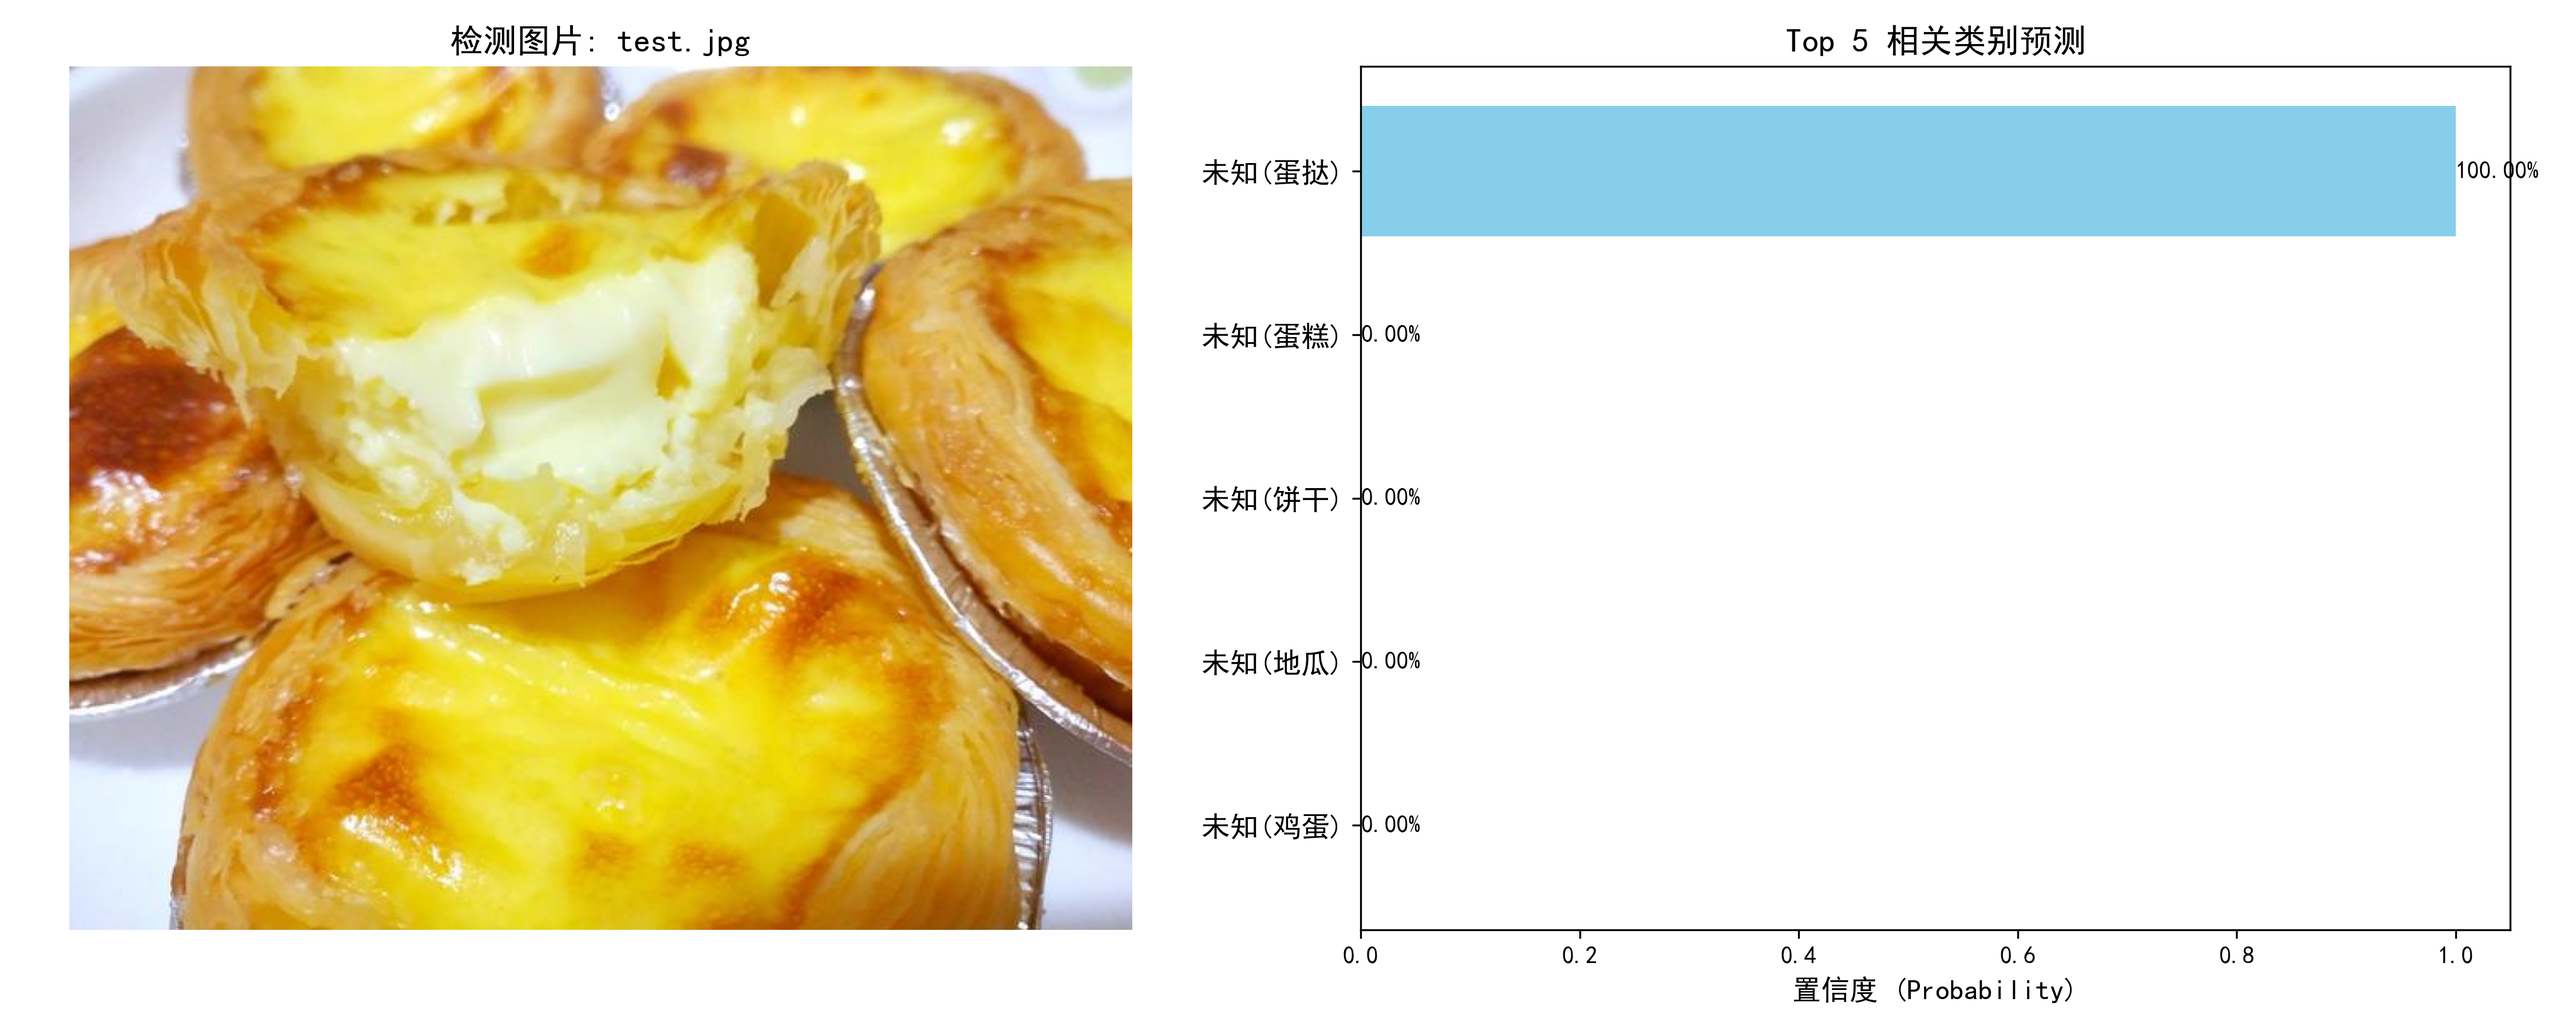
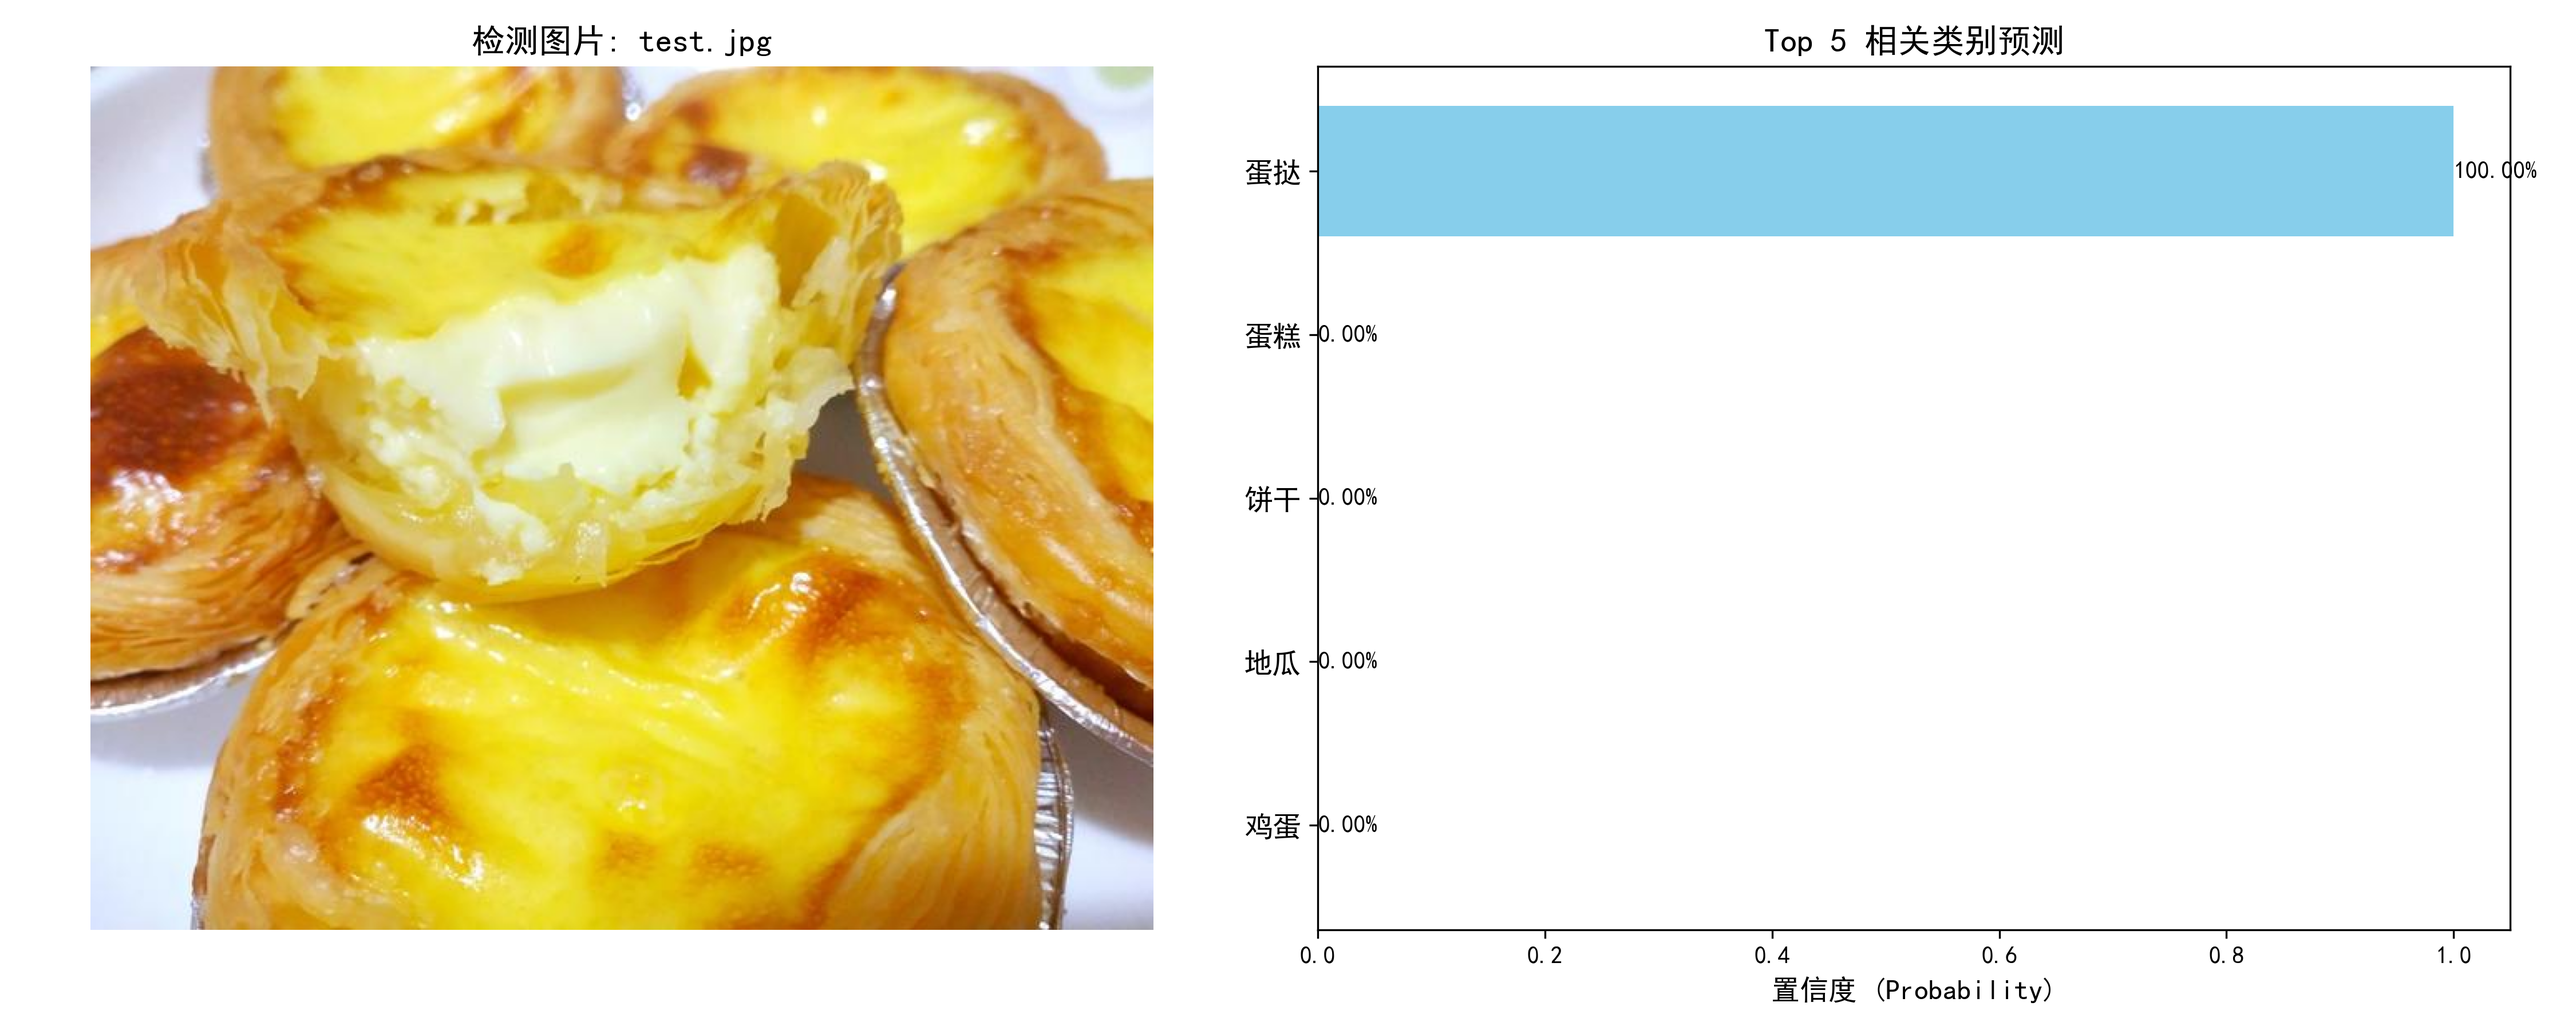
font error solved

diff --git a/predict.py b/predict.py
@@ -57,8 +57,7 @@ def predict_top_k(image_path, model_path, config_path, k=5):
     top_indices = top_indices.cpu().numpy()[0]
 
     # 映射名称
-    top_names = [ID_TO_CHINESE.get(folder_names[idx], f"未知({folder_names[idx]})") for idx in top_indices]
-
+    top_names = [folder_names[idx] for idx in top_indices]
     # --- 可视化：左图右表 ---
     fig, (ax1, ax2) = plt.subplots(1, 2, figsize=(15, 6))
     

diff --git a/report.md b/report.md
@@ -60,11 +60,12 @@
 
 ## 5. 推理性能测试
 使用 `predict.py` 对模型未见过的单张图片进行实测：
-- **输入**：随机选取测试集中的“废旧电池”图片。
-- **结果**：预测为 `Hazardous-Battery`。
-- **置信度**：**98.5%**。
-- **推理延迟**：约 **15ms**。
+- **输入**：随机选取网络上的蛋挞”图片。
+- **结果**：预测为 `蛋挞`。
+- **置信度**：**100.00%**。
+- **推理延迟**：十分小。
 
+![](docs/top_k_prediction.png)
 ---
 
 ## 6. 总结与改进方案
